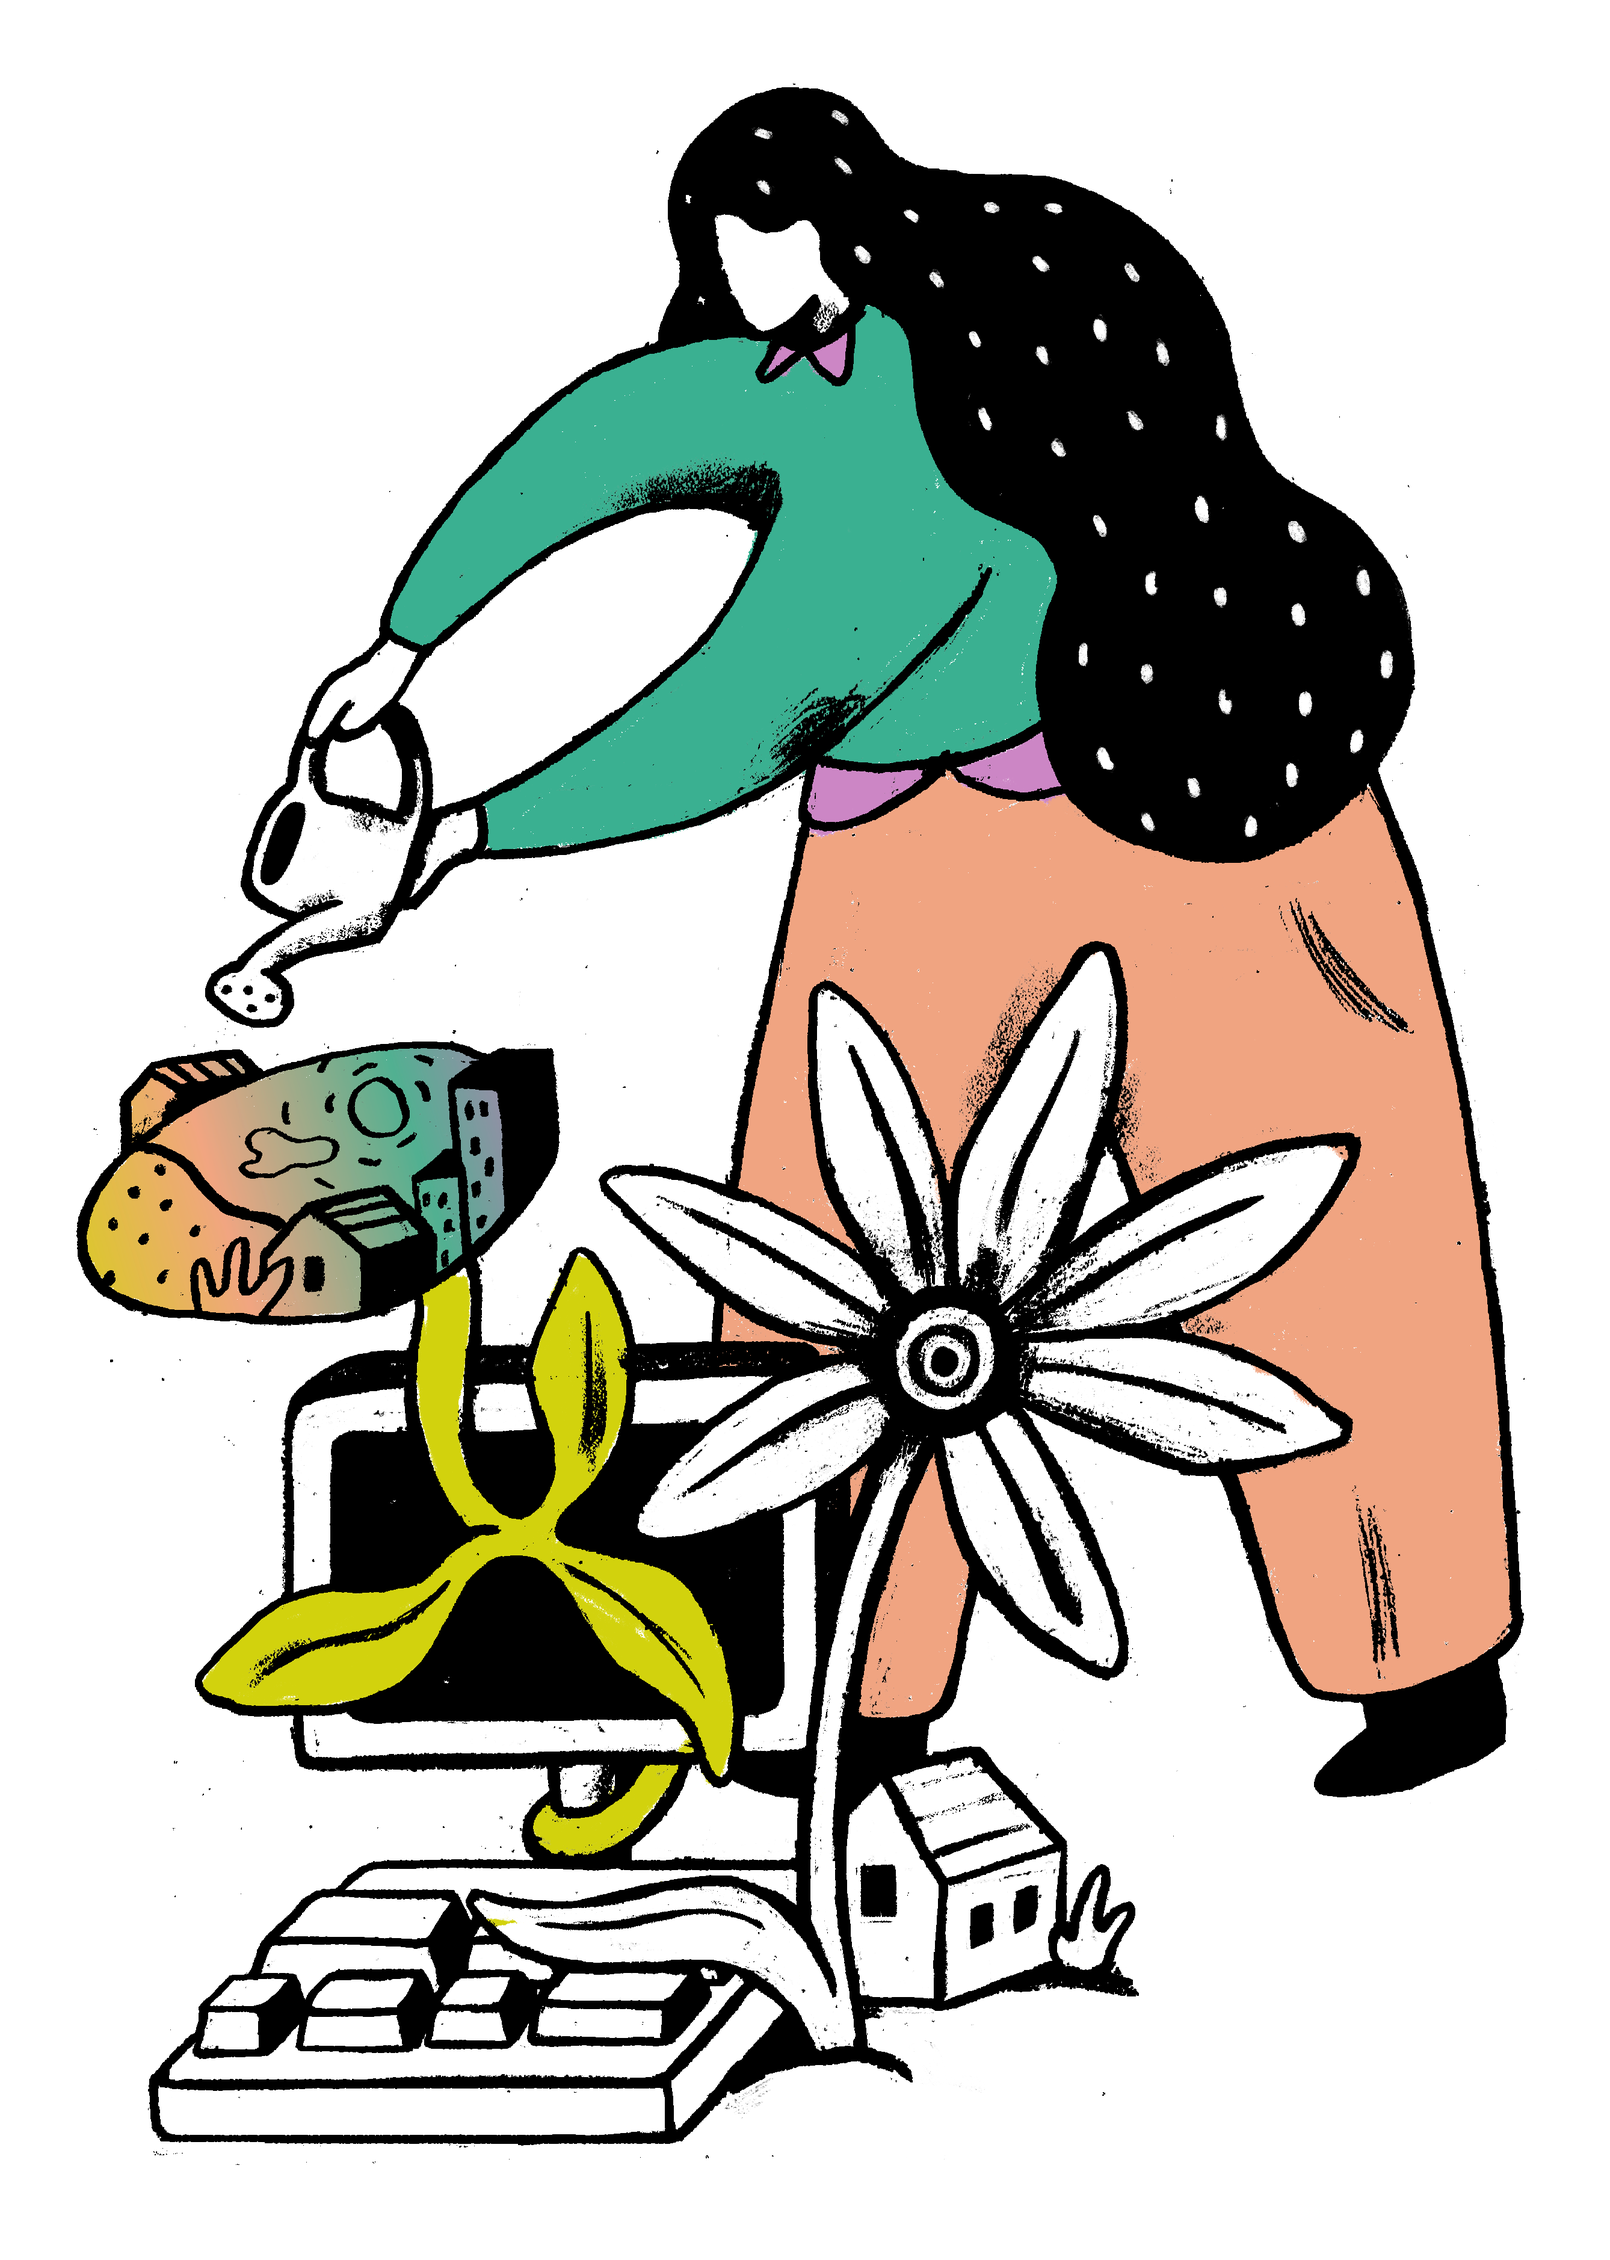
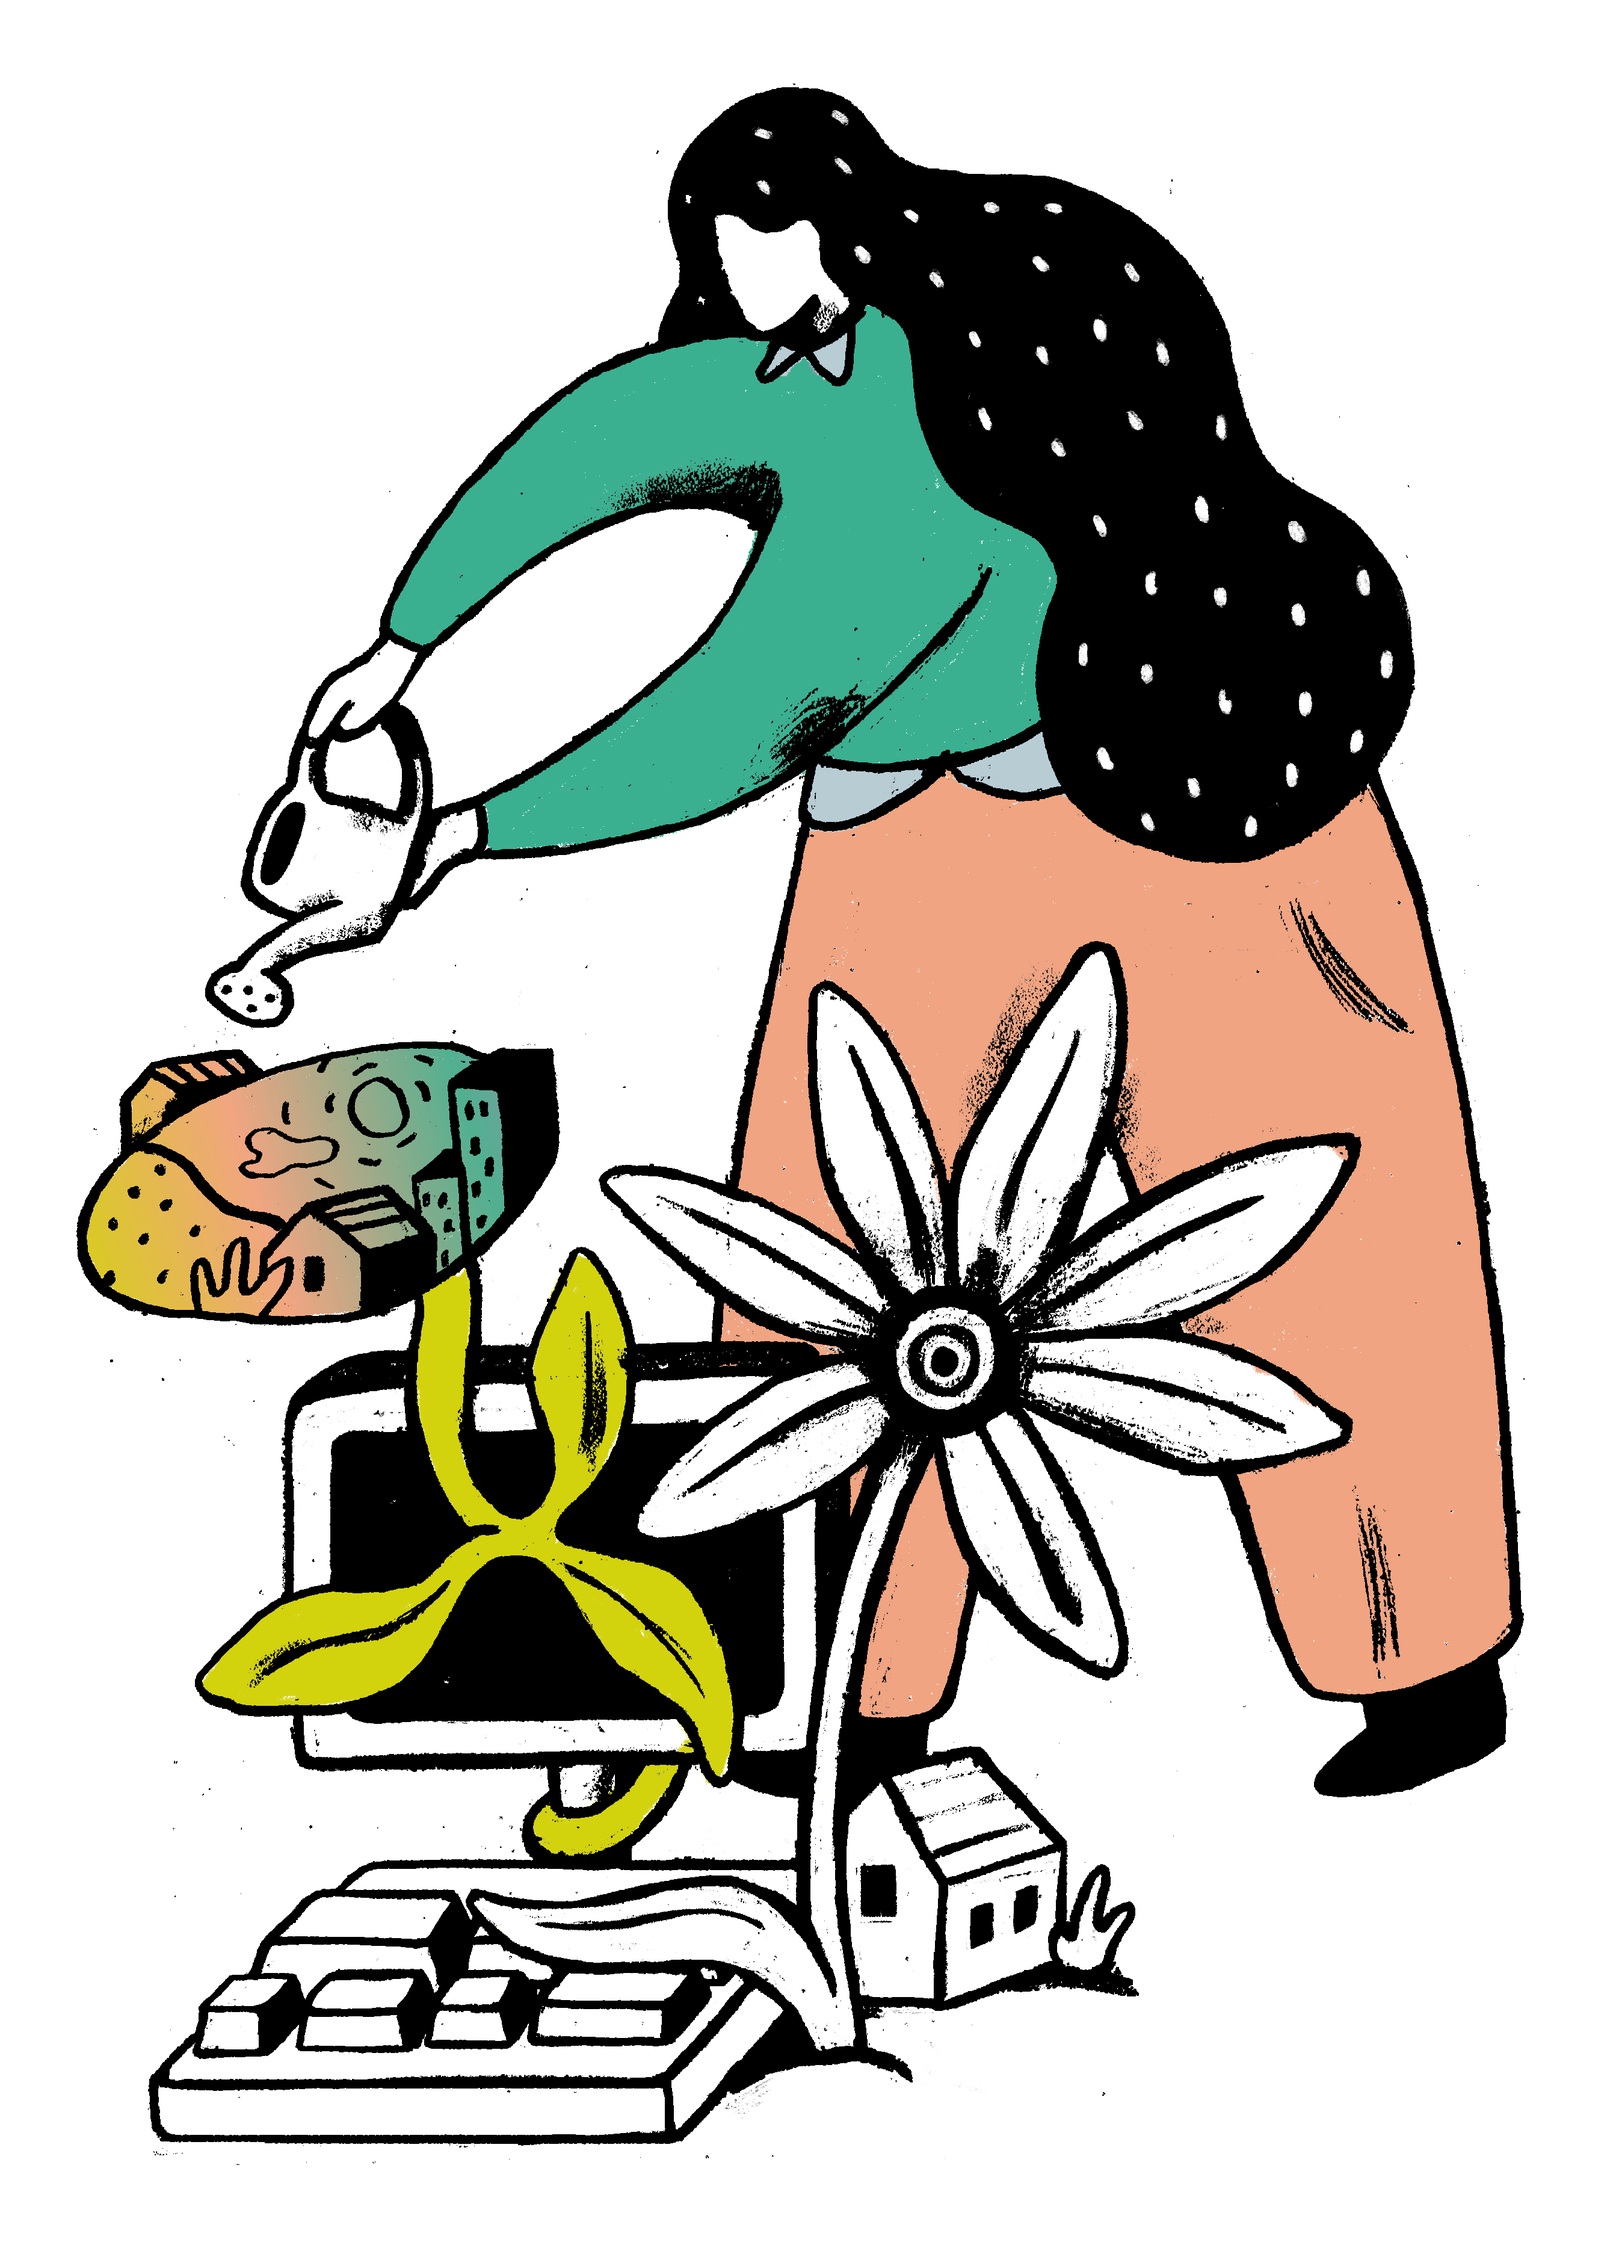
change colors + add illos

diff --git a/style/style.css b/style/style.css
@@ -128,7 +128,7 @@ ul {
     /* border-bottom: 1px solid black; */
     padding: 2% 0% 2% 1%;
     background: rgb(211, 211, 13);
-    background: linear-gradient(119deg, rgba(211, 211, 13, 1) 6%, rgba(241, 165, 129, 1) 30%, rgba(60, 177, 147, 1) 70%, rgba(204, 135, 198, 1) 100%);
+    background: linear-gradient(119deg, rgba(211, 211, 13, 1) 4%, rgba(183,203,211,1) 28%, rgba(60, 177, 147, 1)66%, rgba(241, 165, 129, 1) 95%);
     font-family: 'Redaction-Regular', serif;
     font-size: 1.15em;
     line-height: 1.6em;
@@ -233,7 +233,7 @@ ul {
 
 #events-container {
     padding-left: 2%;
-    background-color: #F1A581;
+    background-color: #b7cbd3;
 }
 
 .events-div {
@@ -246,11 +246,13 @@ ul {
 
 .events-left-div {
     border-right: 0.125em solid black;
-    background-color: #F1A581;
+    /* background-color: #F1A581; */
+    background-color: #b7cbd3;
 }
 
 .events-right-div {
-    background-color: #F07A4D;
+    /* background-color: #F07A4D; */
+    background-color: #b7cbd3;
     padding-bottom: 8%;
 }
 
@@ -314,14 +316,14 @@ ul {
 /*////////////////////////// BOOK CLUB ///////////////////////////*/
 
 #book-club-container {
-    background-color: #3CB193;
+    background-color: #F1A581;
     border-top: 0.125em solid black;
     padding: 8% 2%;
 }
 
-#placeholder-flower-image {
+#book-club-illos {
     width: 120%;
-    /* mix-blend-mode: multiply; */
+    mix-blend-mode: multiply;
     position: relative;
     top: 1vh;
 }
@@ -338,7 +340,7 @@ ul {
 /*////////////////////////// RESOURCES ///////////////////////////*/
 
 #resources-container {
-    background-color: #CC87C6;
+    background-color: #3CB193;
     border-top: 0.125em solid black;
     padding: 8% 2%;
 }
@@ -347,7 +349,7 @@ ul {
 
 #footer-container {
     background: rgb(211, 211, 13);
-    background: linear-gradient(119deg, rgba(211, 211, 13, 1) 6%, rgba(241, 165, 129, 1) 30%, rgba(60, 177, 147, 1) 70%, rgba(204, 135, 198, 1) 100%);
+    background: linear-gradient(119deg, rgba(211, 211, 13, 1) 4%, rgba(183,203,211,1) 28%, rgba(60, 177, 147, 1)66%, rgba(241, 165, 129, 1) 95%);
     font-family: 'Redaction-Regular', serif;
     border-top: 0.125em solid black;
     padding: 4% 2%;
